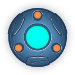
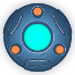
afegir les monedes fent que rotin

diff --git a/main.js b/main.js
@@ -4,29 +4,19 @@ var __extends = (this && this.__extends) || function (d, b) {
     function __() { this.constructor = d; }
     d.prototype = b === null ? Object.create(b) : (__.prototype = b.prototype, new __());
 };
+var Point = Phaser.Point;
 var mainState = (function (_super) {
     __extends(mainState, _super);
     function mainState() {
         _super.apply(this, arguments);
         this.MAX_SPEED = 250; // pixels/second
         this.ACCELERATION = 750; // pixels/second/second
-        this.ROZAMIENTO = 300; // pixels/second/second
-        this.UFO_SPEED = 200;
+        this.ROZAMIENTO = 100; // pixels/second/second
     }
     mainState.prototype.preload = function () {
         _super.prototype.preload.call(this);
         this.load.image('ufo', 'assets/UFO_low.png');
         this.load.image('pickup', 'assets/Pickup_low.png');
-        //this.load.image('background', 'assets/Background_low.png');
-        //this.load.image('background00', 'assets/Background-0-0.png');
-        //this.load.image('background01', 'assets/Background-0-1.png');
-        //this.load.image('background02', 'assets/Background-0-2.png');
-        //this.load.image('background10', 'assets/Background-1-0.png');
-        //this.load.image('background11', 'assets/Background-1-1.png');
-        //this.load.image('background12', 'assets/Background-1-2.png');
-        //this.load.image('background20', 'assets/Background-2-0.png');
-        //this.load.image('background21', 'assets/Background-2-1.png');
-        //this.load.image('background22', 'assets/Background-2-2.png');
         this.game.load.tilemap('tilemap', 'assets/mapa.json', null, Phaser.Tilemap.TILED_JSON);
         this.game.load.image('tiles', 'assets/Background_low.png');
         this.physics.startSystem(Phaser.Physics.ARCADE);
@@ -35,21 +25,7 @@ var mainState = (function (_super) {
         _super.prototype.create.call(this);
         this.crearParets();
         this.crearJugador();
-        //this.walls = this.add.group();
-        //this.walls.enableBody = true;
-        //
-        //this.add.sprite(0, 0, 'background00');
-        //var wall_left = this.add.sprite(0, 61, 'background01', null, this.walls);
-        //this.add.sprite(0, wall_left.height + 61, 'background02');
-        //var wall_up = this.add.sprite(wall_left.width, 0, 'background10', null, this.walls);
-        //
-        //var center = this.add.sprite(wall_left.width, wall_up.height, 'background11', null);
-        //
-        //var wall_down = this.add.sprite(wall_left.width, wall_up.height + center.height, 'background12', null, this.walls);
-        //this.add.sprite(540, 0, 'background20');
-        //var wall_right = this.add.sprite(wall_left.width+center.width, wall_up.height, 'background21', null, this.walls);
-        //this.add.sprite(540, 535, 'background22');
-        //background = this.add.sprite(0, 0, 'background');
+        this.createPickup();
         this.cursor = this.input.keyboard.createCursorKeys();
     };
     mainState.prototype.crearParets = function () {
@@ -68,11 +44,34 @@ var mainState = (function (_super) {
         this.ufo.body.collideWorldBounds = true;
         this.ufo.body.bounce.setTo(0.7);
     };
+    mainState.prototype.createPickup = function () {
+        this.pickups = this.add.group();
+        this.pickups.enableBody = true;
+        var posicions = [{ x: 300, y: 95 },
+            { x: 190, y: 135 }, { x: 410, y: 135 },
+            { x: 120, y: 200 }, { x: 480, y: 200 },
+            { x: 95, y: 300 }, { x: 505, y: 300 },
+            { x: 120, y: 405 }, { x: 480, y: 405 },
+            { x: 190, y: 465 }, { x: 410, y: 465 },
+            { x: 300, y: 505 }
+        ];
+        for (var i = 0; i < posicions.length; i++) {
+            var posicio = posicions[i];
+            var pickup = new Pickup(this.game, posicio.x, posicio.y, 'pickup');
+            this.pickups.add(pickup);
+        }
+    };
     mainState.prototype.update = function () {
         _super.prototype.update.call(this);
         this.moureOVNI();
+        //this.mourePickup();
+        this.game.debug.body(this.pickups.getAt(0));
+        this.game.debug.body(this.ufo);
         this.physics.arcade.collide(this.ufo, this.parets);
-        //this.physics.arcade.overlap(this.ufo, this.pickups, this.getPickup, null, this);
+        this.physics.arcade.overlap(this.ufo, this.pickups, this.getPickup, null, this);
+    };
+    mainState.prototype.getPickup = function () {
+        //alert("hola");
     };
     mainState.prototype.moureOVNI = function () {
         if (this.cursor.left.isDown) {
@@ -100,6 +99,18 @@ var mainState = (function (_super) {
     };
     return mainState;
 })(Phaser.State);
+var Pickup = (function (_super) {
+    __extends(Pickup, _super);
+    function Pickup(game, x, y, key) {
+        _super.call(this, game, x, y, key);
+        this.anchor.setTo(0.5, 0.5);
+    }
+    Pickup.prototype.update = function () {
+        _super.prototype.update.call(this);
+        this.angle += 5;
+    };
+    return Pickup;
+})(Phaser.Sprite);
 var SimpleGame = (function () {
     function SimpleGame() {
         this.game = new Phaser.Game(600, 600, Phaser.AUTO, 'gameDiv');

diff --git a/main.ts b/main.ts
@@ -1,33 +1,24 @@
 /// <reference path="phaser/phaser.d.ts"/>
 
+import Point = Phaser.Point;
 class mainState extends Phaser.State {
     game: Phaser.Game;
 
     private ufo:Phaser.Sprite;
+    private pickups:Phaser.Group;
     private cursor:Phaser.CursorKeys;
     private parets:Phaser.TilemapLayer;
     private map:Phaser.Tilemap;
 
     private MAX_SPEED = 250; // pixels/second
     private ACCELERATION = 750; // pixels/second/second
-    private ROZAMIENTO = 300; // pixels/second/second
-    private UFO_SPEED = 200;
+    private ROZAMIENTO = 100; // pixels/second/second
 
     preload():void {
         super.preload();
 
         this.load.image('ufo', 'assets/UFO_low.png');
         this.load.image('pickup', 'assets/Pickup_low.png');
-        //this.load.image('background', 'assets/Background_low.png');
-        //this.load.image('background00', 'assets/Background-0-0.png');
-        //this.load.image('background01', 'assets/Background-0-1.png');
-        //this.load.image('background02', 'assets/Background-0-2.png');
-        //this.load.image('background10', 'assets/Background-1-0.png');
-        //this.load.image('background11', 'assets/Background-1-1.png');
-        //this.load.image('background12', 'assets/Background-1-2.png');
-        //this.load.image('background20', 'assets/Background-2-0.png');
-        //this.load.image('background21', 'assets/Background-2-1.png');
-        //this.load.image('background22', 'assets/Background-2-2.png');
 
         this.game.load.tilemap('tilemap', 'assets/mapa.json', null, Phaser.Tilemap.TILED_JSON);
         this.game.load.image('tiles', 'assets/Background_low.png');
@@ -40,23 +31,7 @@ class mainState extends Phaser.State {
 
         this.crearParets();
         this.crearJugador();
-
-        //this.walls = this.add.group();
-        //this.walls.enableBody = true;
-        //
-        //this.add.sprite(0, 0, 'background00');
-        //var wall_left = this.add.sprite(0, 61, 'background01', null, this.walls);
-        //this.add.sprite(0, wall_left.height + 61, 'background02');
-        //var wall_up = this.add.sprite(wall_left.width, 0, 'background10', null, this.walls);
-        //
-        //var center = this.add.sprite(wall_left.width, wall_up.height, 'background11', null);
-        //
-        //var wall_down = this.add.sprite(wall_left.width, wall_up.height + center.height, 'background12', null, this.walls);
-        //this.add.sprite(540, 0, 'background20');
-        //var wall_right = this.add.sprite(wall_left.width+center.width, wall_up.height, 'background21', null, this.walls);
-        //this.add.sprite(540, 535, 'background22');
-
-        //background = this.add.sprite(0, 0, 'background');
+        this.createPickup();
 
         this.cursor = this.input.keyboard.createCursorKeys();
     }
@@ -83,13 +58,41 @@ class mainState extends Phaser.State {
         this.ufo.body.bounce.setTo(0.7);
     }
 
+    private createPickup():void {
+        this.pickups = this.add.group();
+        this.pickups.enableBody = true;
+
+        var posicions = [ {x:300, y:95},
+            {x:190, y:135}, {x:410, y:135},
+            {x:120, y:200}, {x:480, y:200},
+            {x:95, y:300}, {x:505, y:300},
+            {x:120, y:405}, {x:480, y:405},
+            {x:190, y:465}, {x:410, y:465},
+            {x:300, y:505}
+        ];
+        for (var i = 0; i < posicions.length; i++) {
+            var posicio = posicions[i];
+            var pickup = new Pickup (this.game, posicio.x, posicio.y, 'pickup');
+
+            this.pickups.add(pickup);
+        }
+    }
+
     update():void {
         super.update();
 
         this.moureOVNI();
+        //this.mourePickup();
+
+        this.game.debug.body(this.pickups.getAt(0));
+        this.game.debug.body(this.ufo);
 
         this.physics.arcade.collide(this.ufo, this.parets);
-        //this.physics.arcade.overlap(this.ufo, this.pickups, this.getPickup, null, this);
+        this.physics.arcade.overlap(this.ufo, this.pickups, this.getPickup, null, this);
+    }
+
+    private getPickup(){
+        //alert("hola");
     }
 
     private moureOVNI(){
@@ -106,14 +109,25 @@ class mainState extends Phaser.State {
             this.ufo.body.acceleration.y = this.ACCELERATION;
         } else {
             this.ufo.body.acceleration.y = 0;
-            //this.ufo.body.velocity.y = 0;
-            //this.ufo.body.velocity.x = 0;
         }
 
         // fer que funcioni amb el ratolí
         /*if (this.input.activePointer.active) {
             this.ufo.rotation = this.physics.arcade.moveToPointer(this.ufo, 60, this.input.activePointer, 700);
         }*/
+    }
+}
+
+class Pickup extends Phaser.Sprite {
+
+    constructor(game:Phaser.Game, x:number, y:number, key:string|Phaser.RenderTexture|Phaser.BitmapData|PIXI.Texture) {
+        super(game, x, y, key);
+        this.anchor.setTo(0.5, 0.5);
+    }
+
+    update():void {
+        super.update();
+        this.angle += 5;
     }
 }
 
